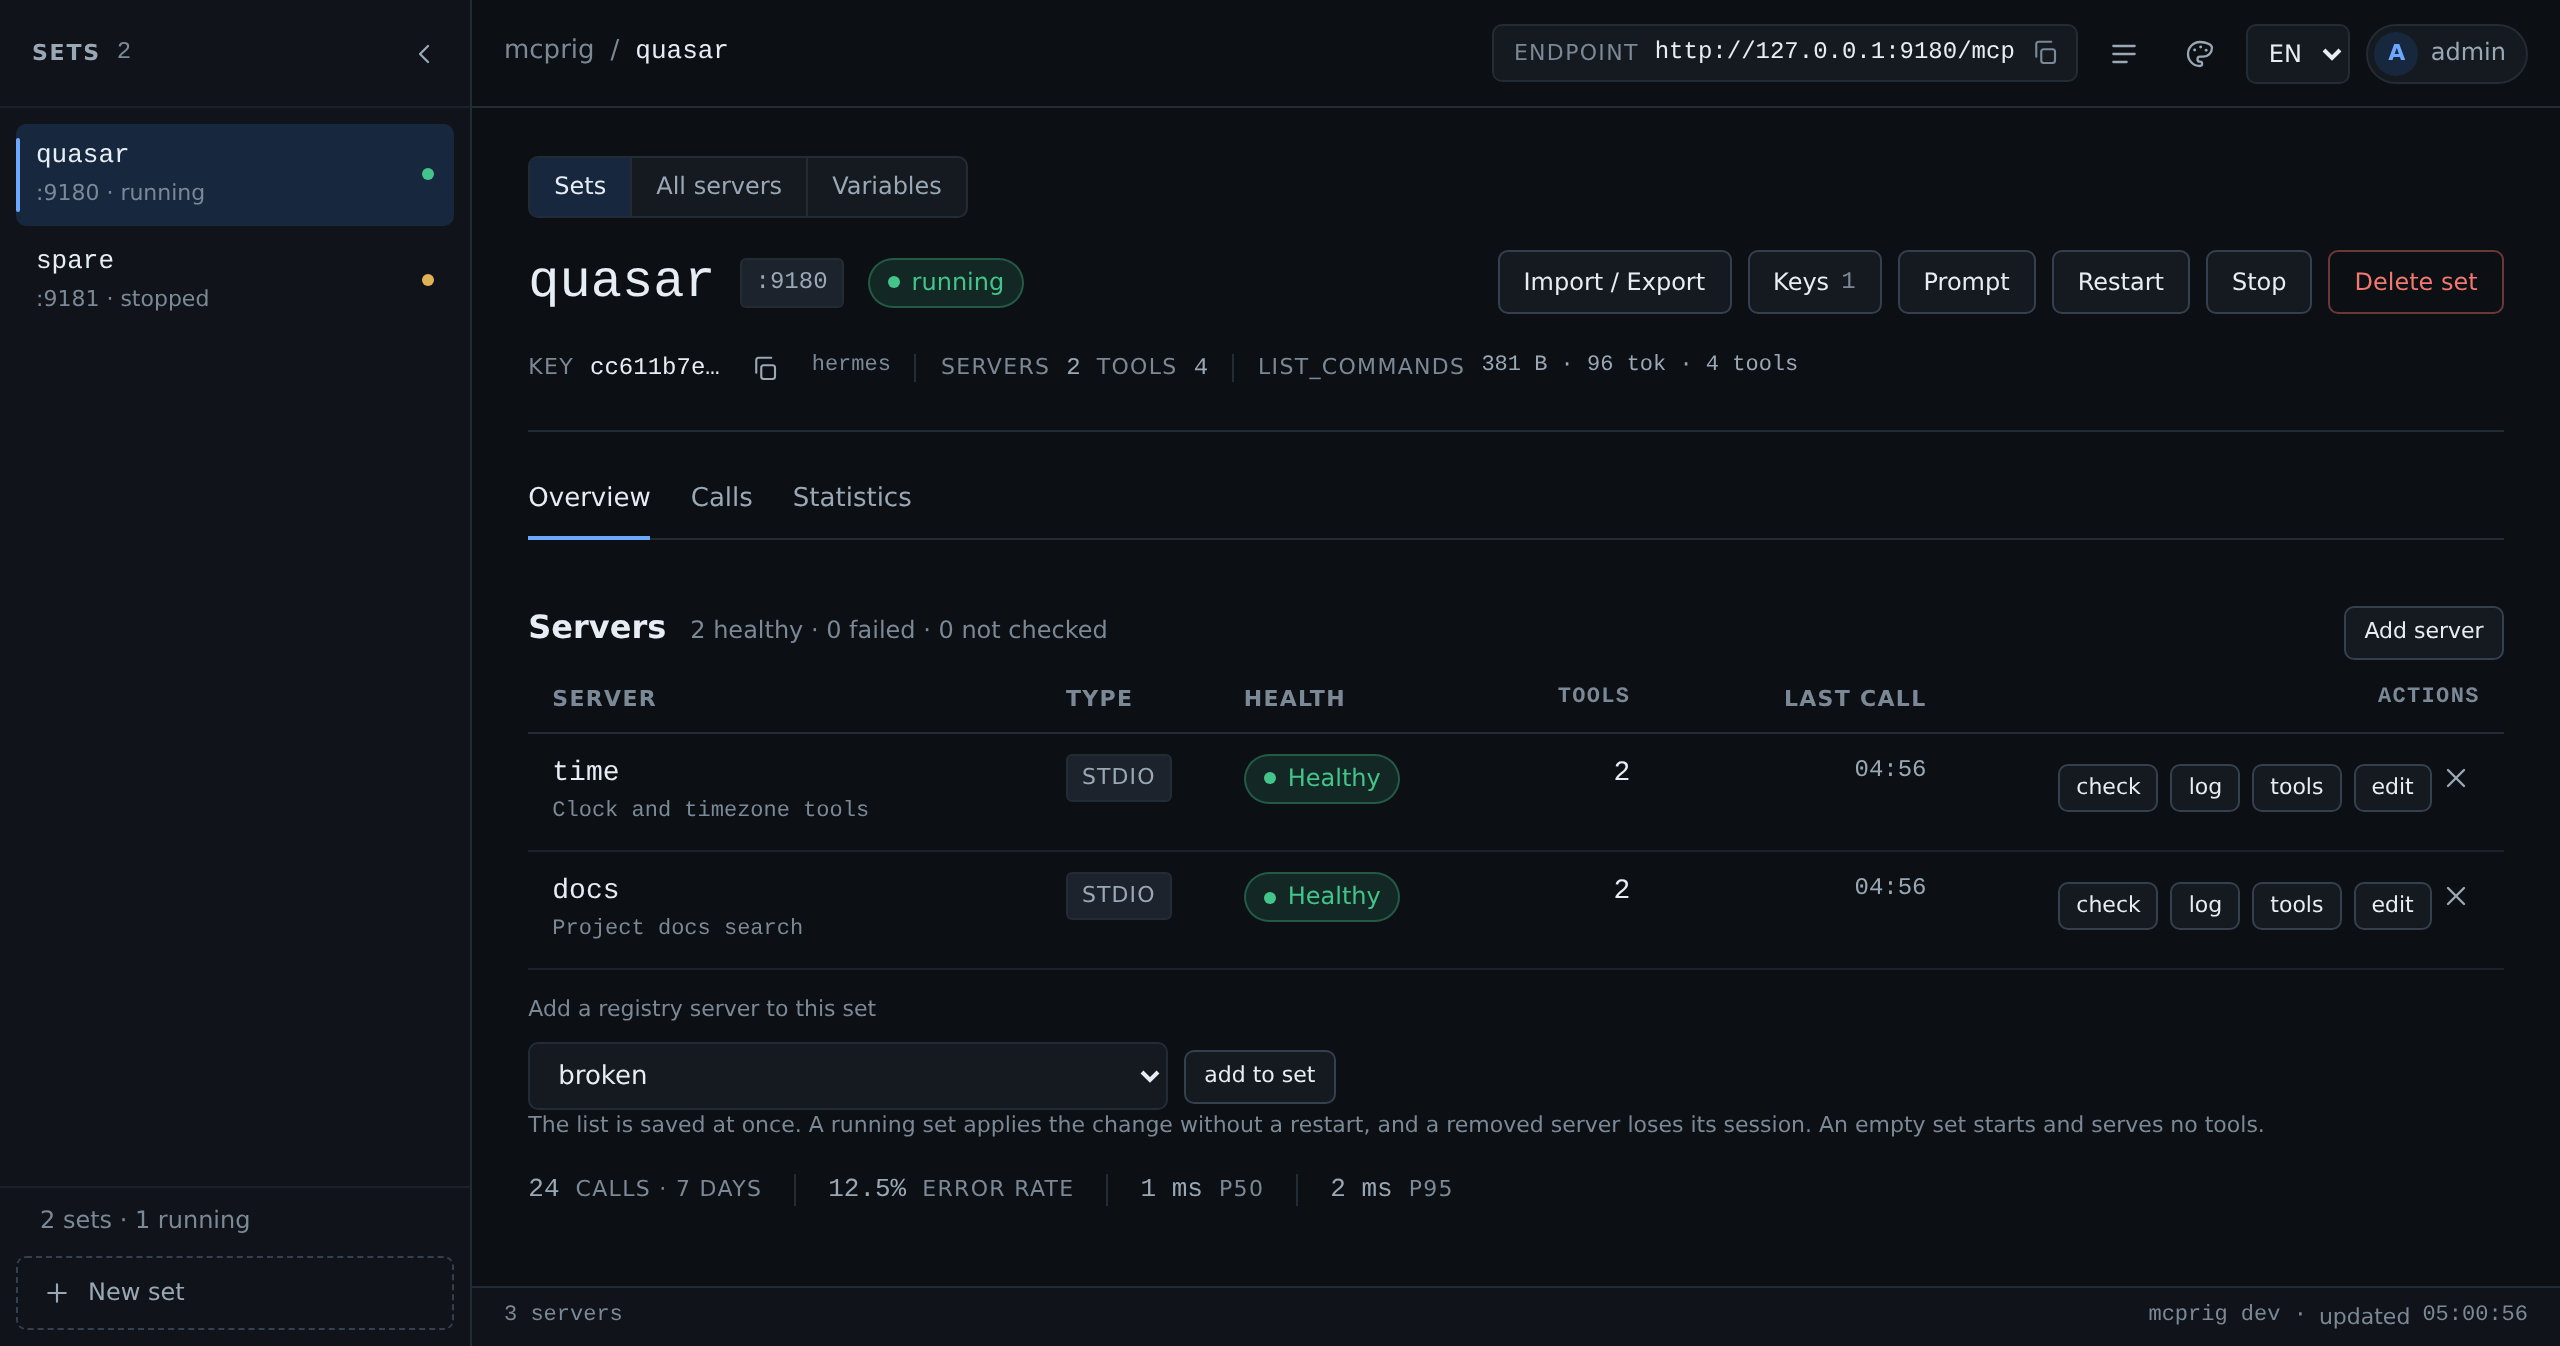
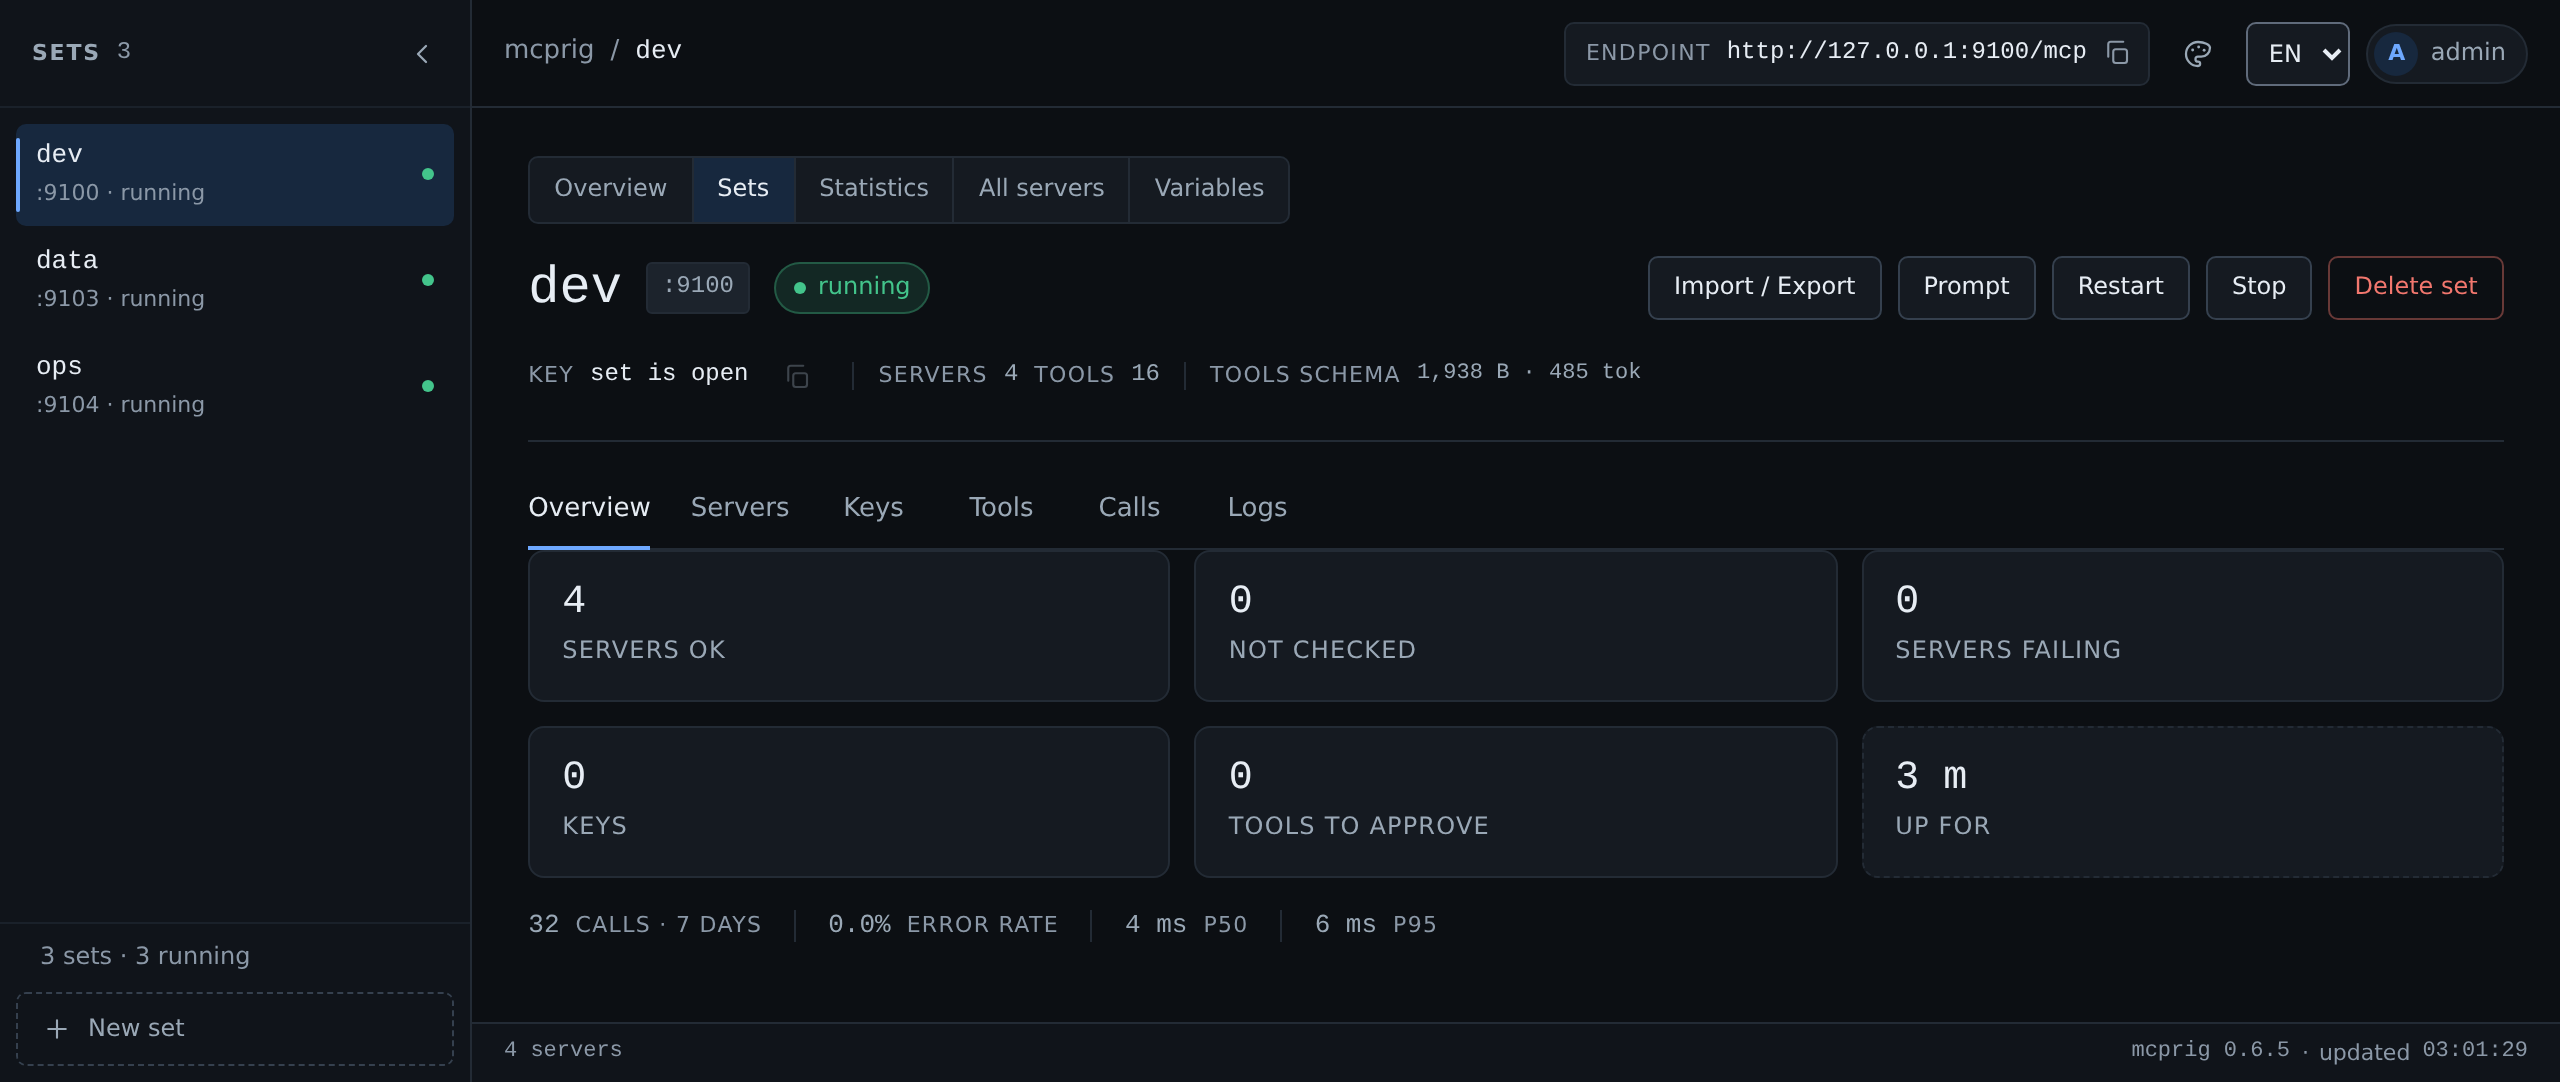
docs: кадр панели без ошибок и отладочных имён
Прежний снимок показывал `12.5% ERROR RATE` и сервер `broken` в селекте —
для витрины README это приглашение к вопросам. Новый кадр снят с живой панели
на чистом наборе: три набора на своих портах, четыре healthy-сервера, 32
настоящих вызова за 7 дней и 0.0% ошибок, числа в шапке, таблице и футере
сходятся. Прежний кадр — в `design/ui/archive/panel-0.6.x.png`, подпись под
картинкой уточнена в обоих README.

diff --git a/design/ui/note.md b/design/ui/note.md
@@ -8,7 +8,7 @@
 | --- | --- |
 | `index.html` | главный экран: топбар, рейл наборов, KPI, таблица наборов, таблица вызовов, правая колонка, статус-строка |
 | `states.html` | три состояния: пусто, набор остановлен, плотная таблица 40 строк |
-| `panel.png` | скриншот настоящей панели (`web/`), тёмная тема, 1280×673 при ×2: набор `quasar` со страницами-пилюлями, Import / Export, Keys, Prompt и Delete set, метка ключа `hermes`, KPI на настоящих вызовах, таблица серверов; прежний снимок — `archive/panel-0.5.1.png`, макет при 1440×1000 — `archive/panel-0.4.x.png` |
+| `panel.png` | скриншот настоящей панели (`web/`), тёмная тема, 1280×541 при ×2: три набора на своих портах, открытый `dev` с четырьмя healthy-серверами и 16 инструментами, шесть плиток состояния, сводка `32 CALLS · 7 DAYS | 0.0% ERROR RATE`; прежние снимки — `archive/panel-0.6.x.png`, `archive/panel-0.5.1.png`, макет при 1440×1000 — `archive/panel-0.4.x.png` |
 | `states.png` | скриншот `states.html` |
 
 Что взято в реализацию этапа 5:

diff --git a/README.ru.md b/README.ru.md
@@ -46,7 +46,7 @@ umask 077; printf '%s' '<token>' > demo.key
 
 ![mcprig panel](design/ui/panel.png)
 
-*Панель: наборы со своими портами и точками входа и серверы одного набора — транспорт и число инструментов.*
+*Панель: наборы со своими портами и точками входа, серверы одного набора и его трафик за 7 дней.*
 
 Docker работает так же и не требует Go: `docker pull ghcr.io/akrhin/mcprig:latest`
 (`latest-full` добавляет node и python для `npx`/`uvx`-серверов). Юниты systemd,

diff --git a/README.md b/README.md
@@ -46,7 +46,7 @@ umask 077; printf '%s' '<token>' > demo.key
 
 ![mcprig panel](design/ui/panel.png)
 
-*The panel: sets on their own ports and endpoints, and the servers of one set with transport and tool counts.*
+*The panel: sets on their own ports and endpoints, the servers of one set, and its traffic for the last 7 days.*
 
 Docker works the same way, with no Go toolchain needed:
 `docker pull ghcr.io/akrhin/mcprig:latest` (`latest-full` adds node and python for
